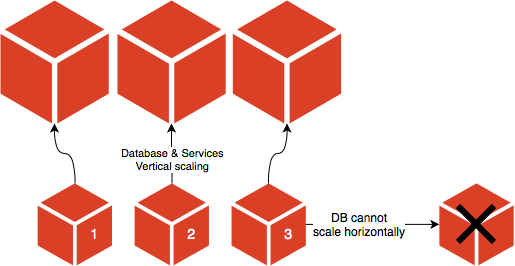
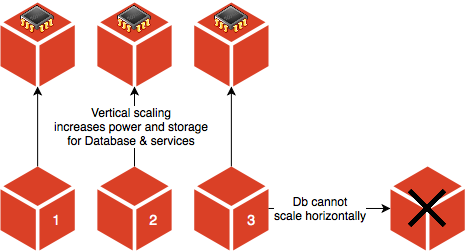
update graphics

diff --git a/guides/v2.1/cloud/architecture/architecture-scaling.md b/guides/v2.1/cloud/architecture/architecture-scaling.md
@@ -13,9 +13,9 @@ Historically, the Pro architecture consisted of 3 nodes, each containing a full 
 
 ### Database tier scaling
 
-![Database tier scaling]
-
 There are 3 nodes for the database and services, such as New Relic and Fastly. When the database (db) tier approaches capacity, the only way to scale is to increase the server size, such as boosting the CPU power and memory. Capacity is limited to the size of the node that is available.
+
+![Database tier scaling]
 
 Further optimizing the database performance includes [scaling the web tier](#web-tier-scaling) and routing traffic. You can route traffic based on the node type. For example, you can serve PHP traffic on the database node or you can isolate the database node from the PHP traffic.
 
@@ -26,9 +26,11 @@ Consider the following when scaling the database tier:
 
 ### Web tier scaling
 
+There are 3 nodes for the web servers. In addition to vertical scaling by increasing power and memory, the web tier can scale horizontally by adding extra web servers to an existing cluster when constricted at the PHP level.
+
 ![Web tier scaling]
 
-There are 3 nodes for the web servers. In addition to vertical scaling by increasing power and memory, the web tier can scale horizontally by adding extra web servers to an existing cluster when constricted at the PHP level. This complements the vertical scaling provided by the database tier. (Introduce the concept of balancing...)
+This complements the vertical scaling provided by the database tier. (Introduce the concept of balancing...)
 
 Consider the following when scaling the web tier:
 
